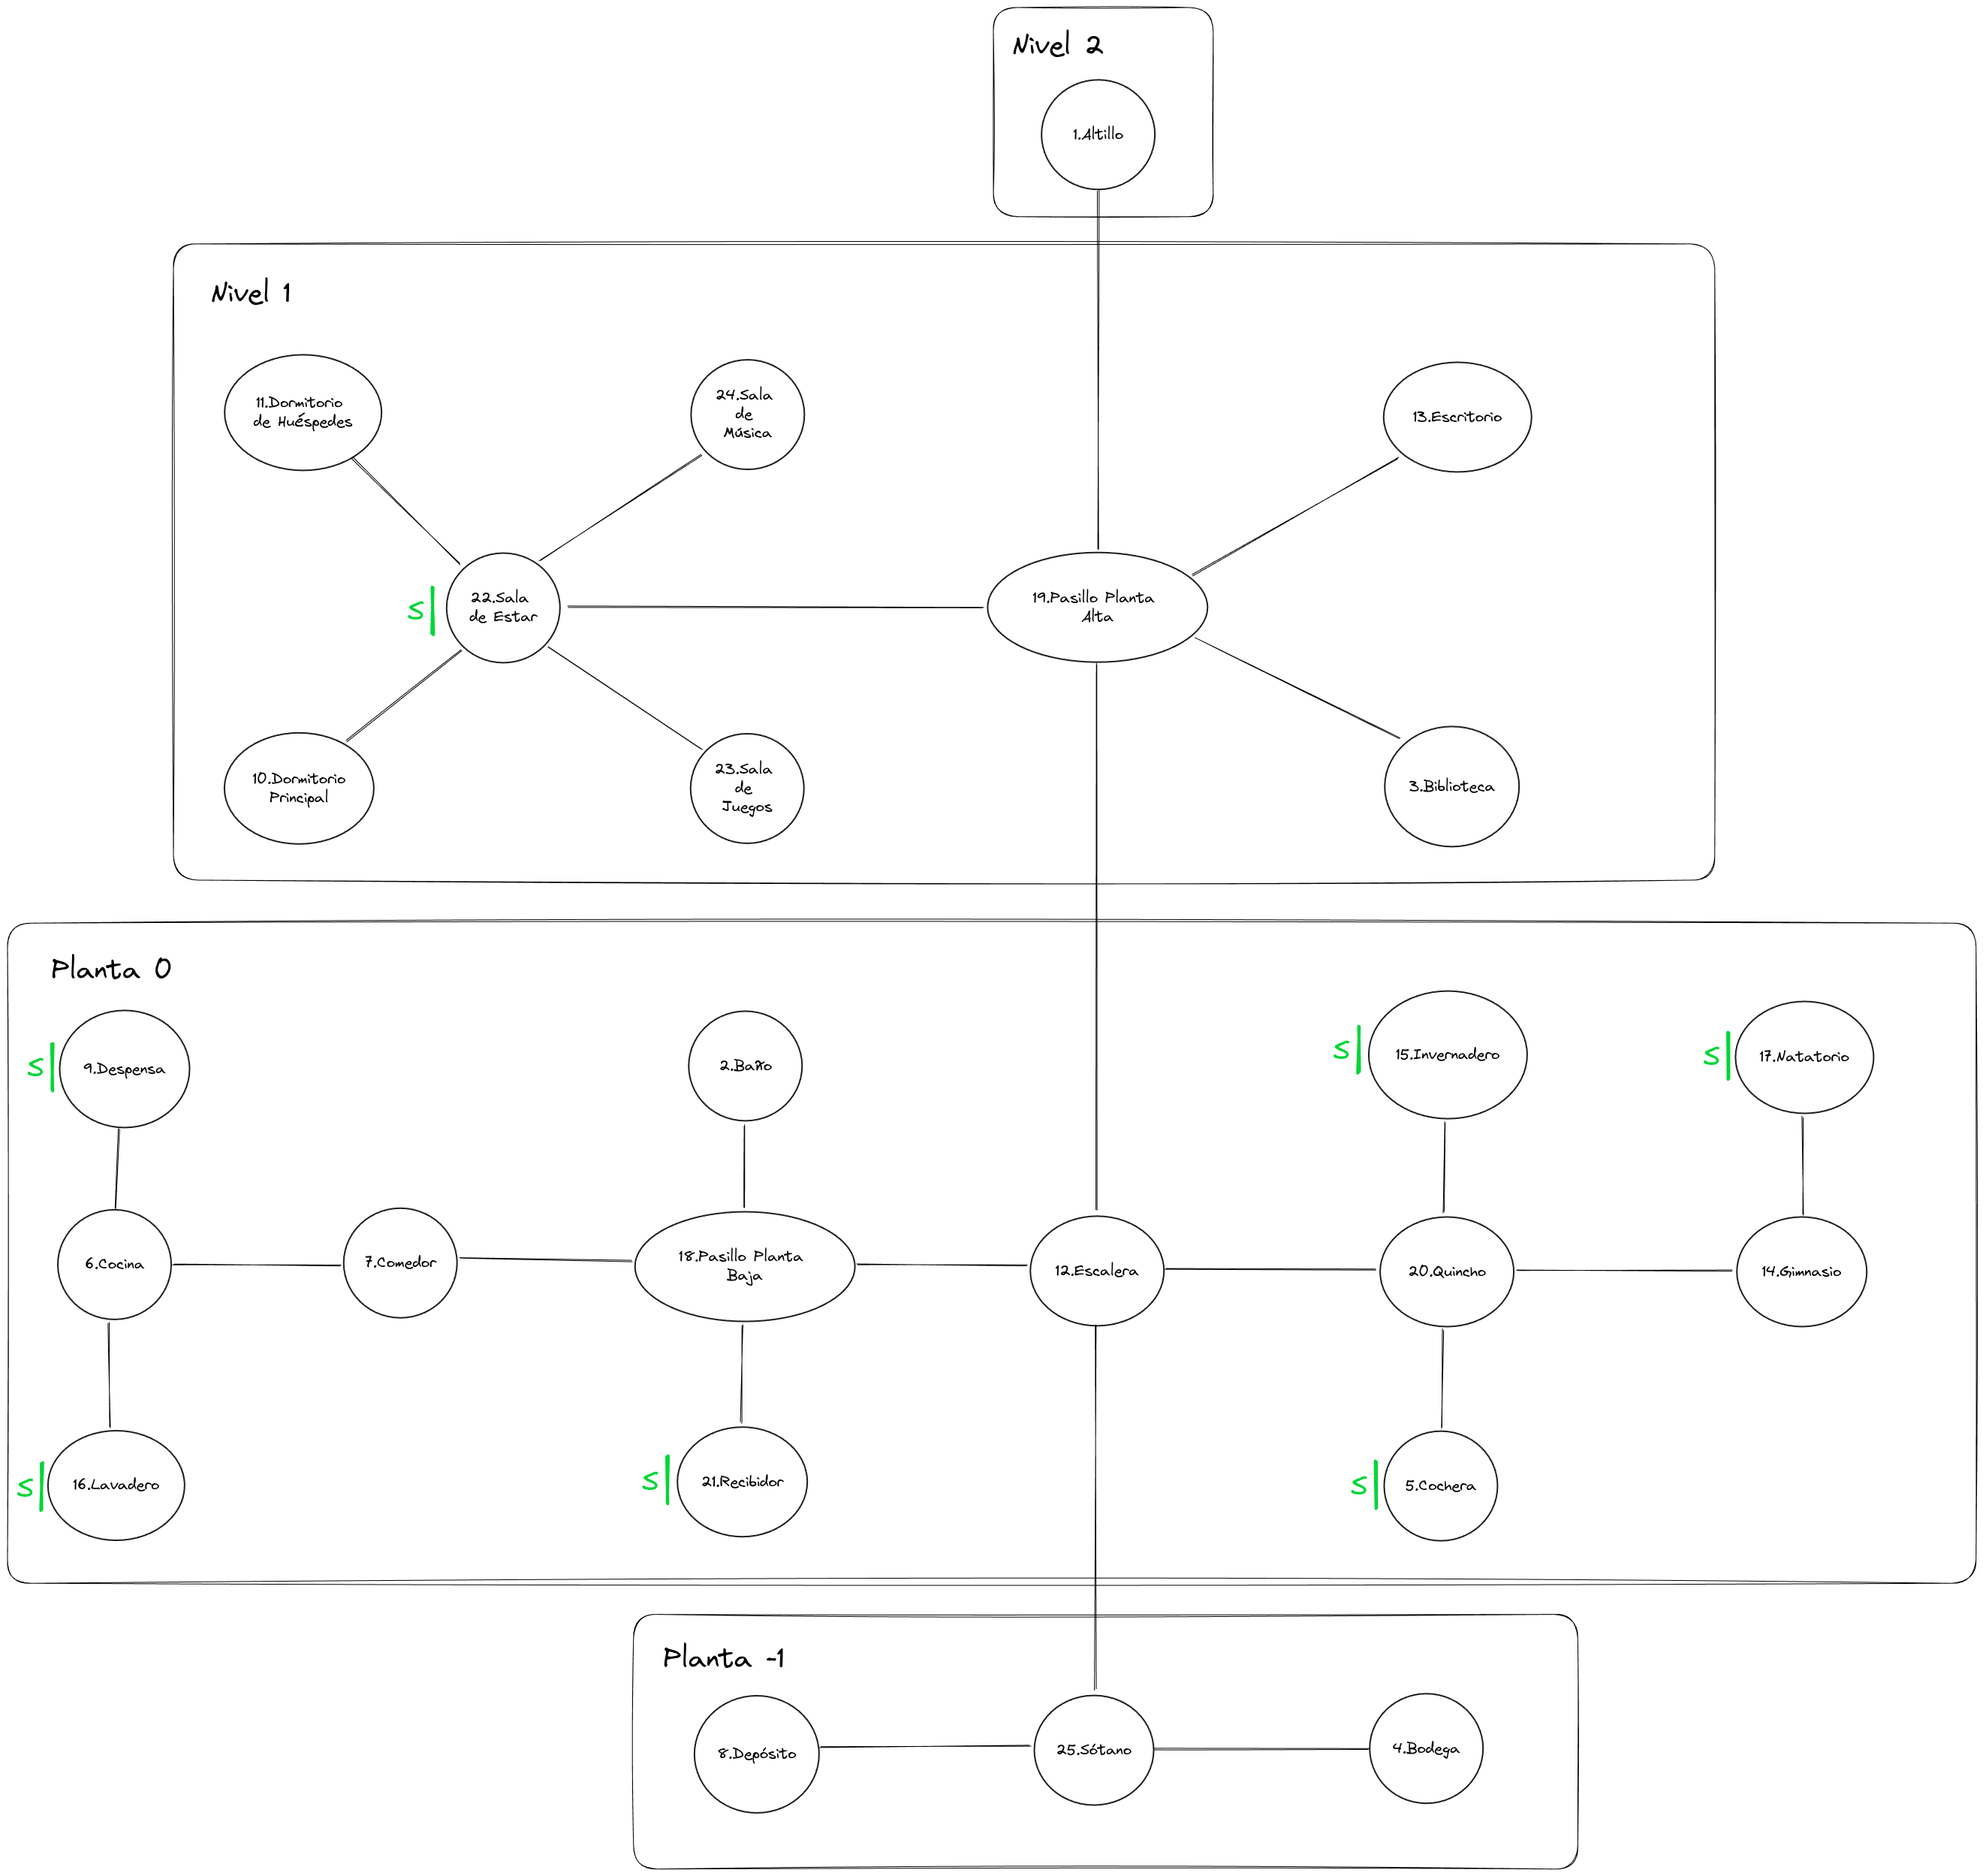
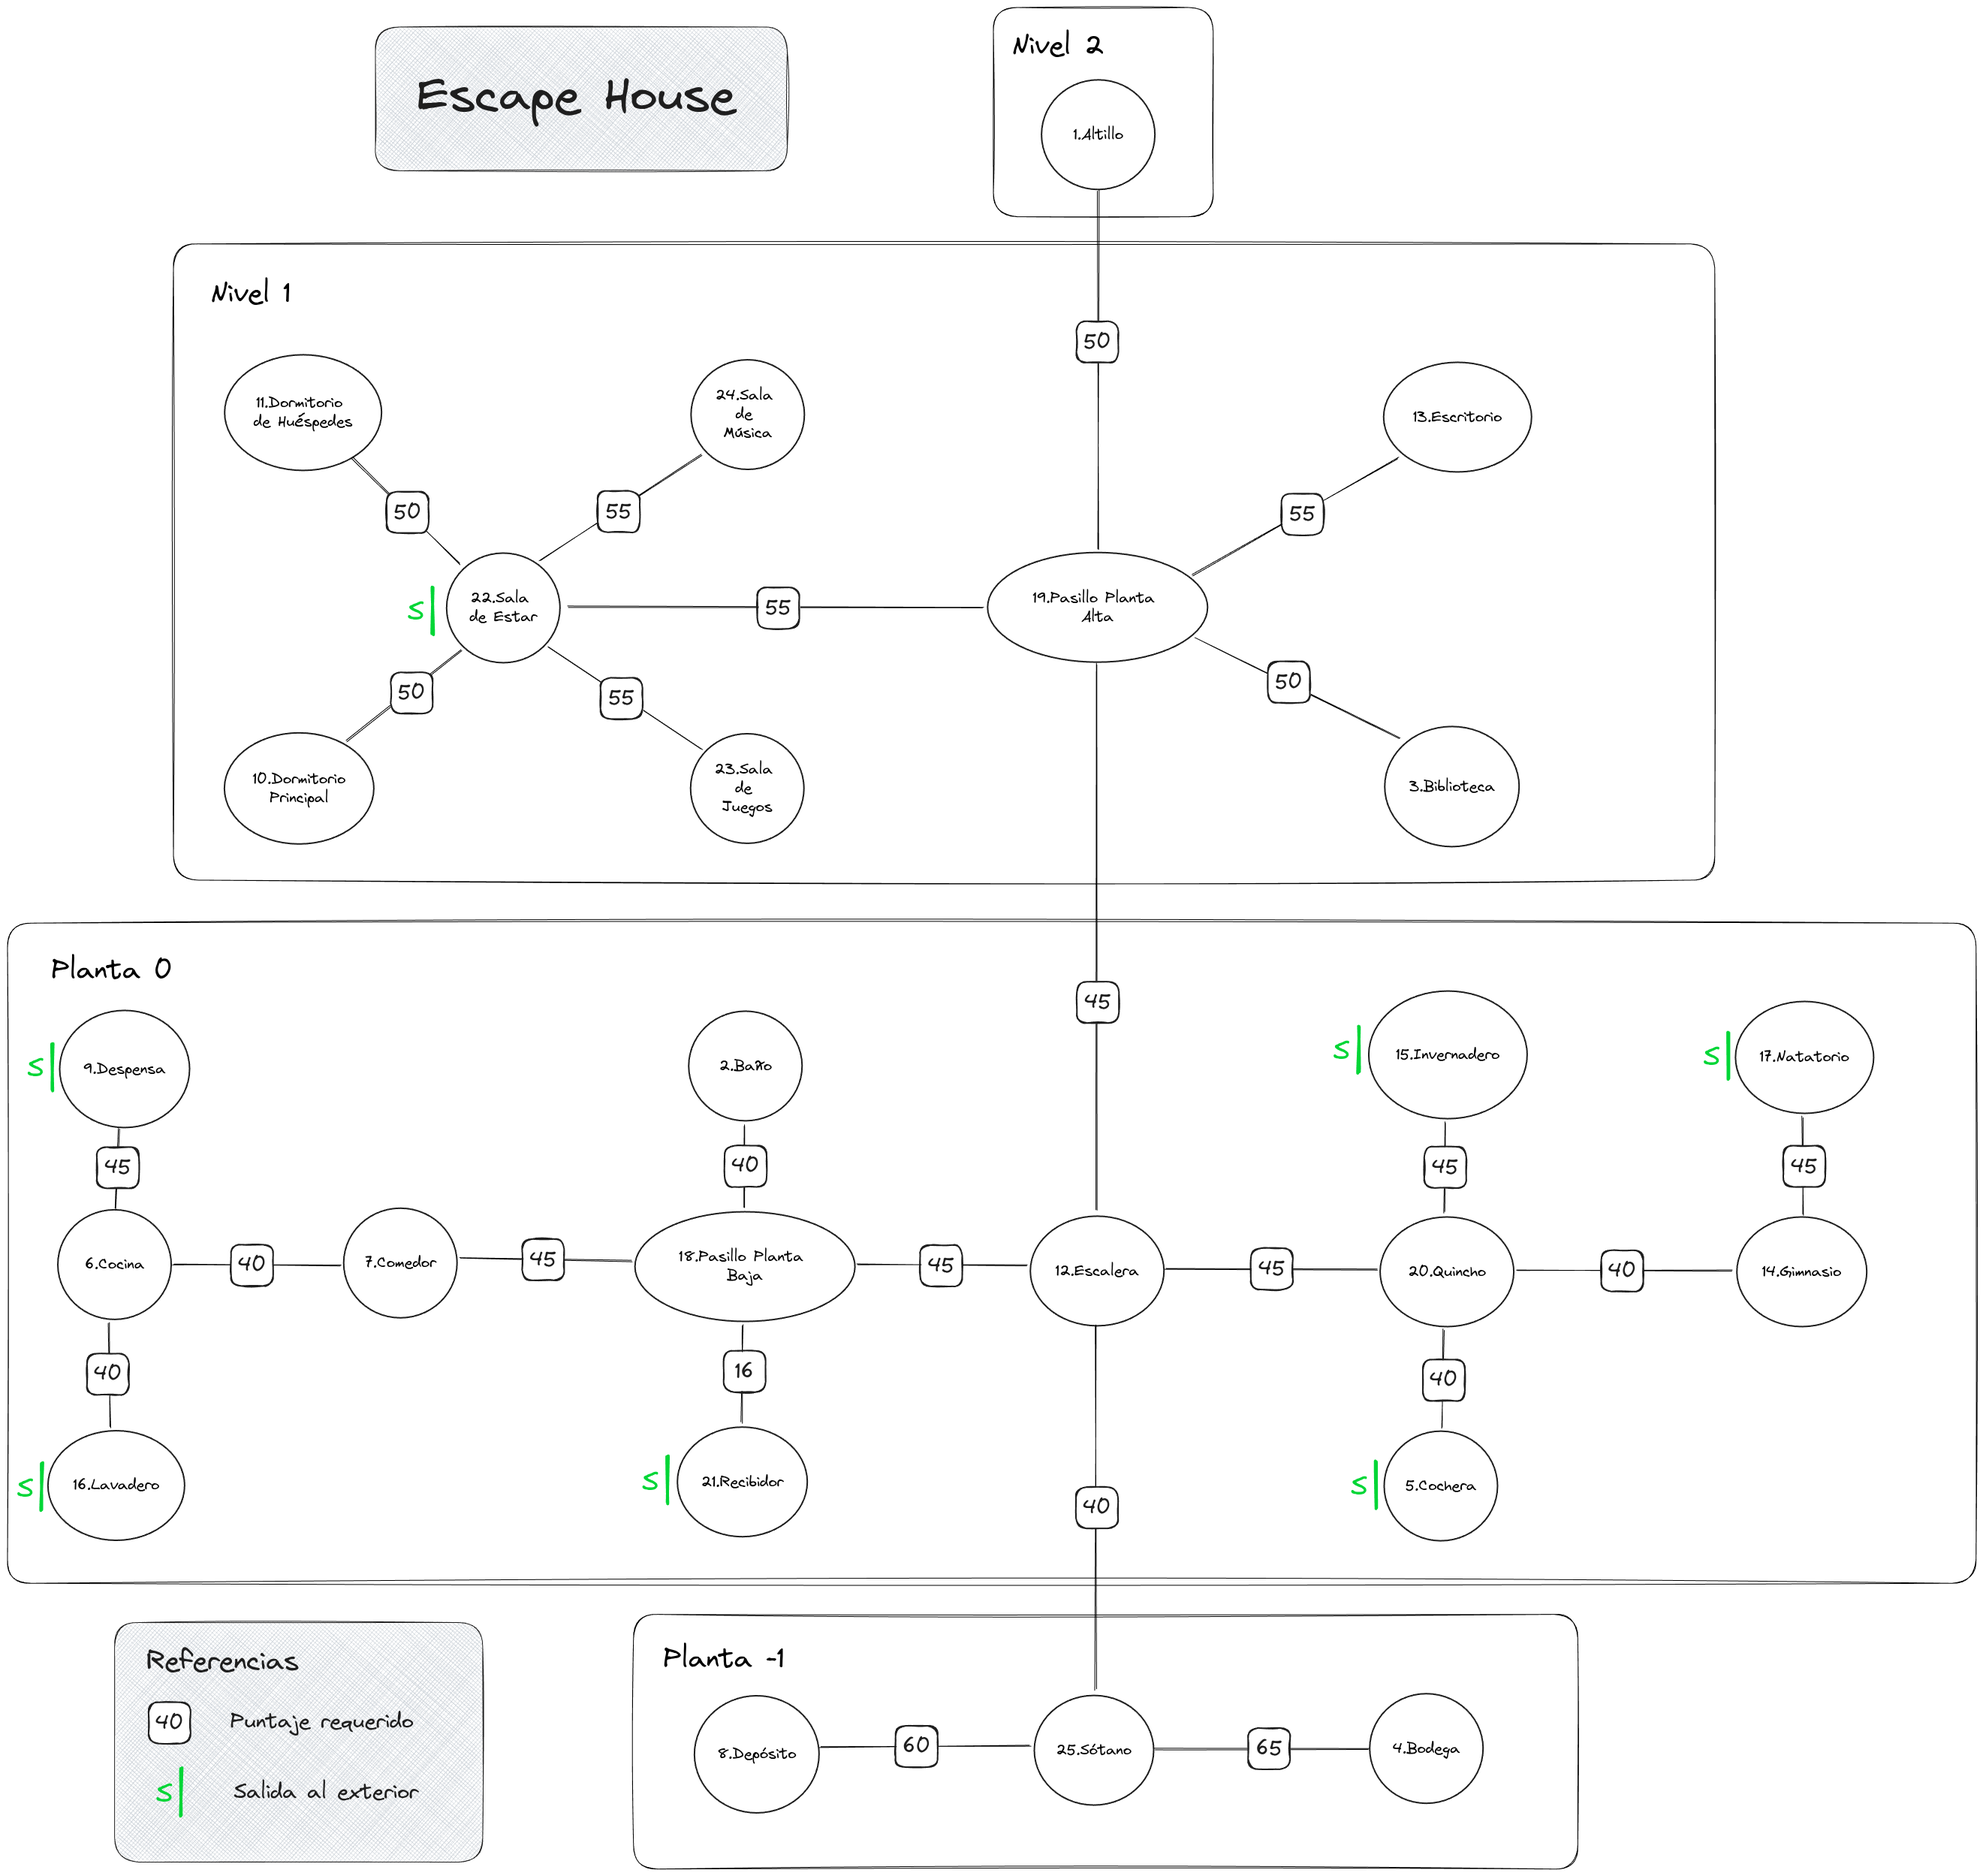
Fix: eficiencia al eliminar arcos luego de eliminar un vertice

diff --git a/EscapeHouse/src/main/java/estructuras/GrafoEtiquetado.java b/EscapeHouse/src/main/java/estructuras/GrafoEtiquetado.java
@@ -30,6 +30,8 @@ public class GrafoEtiquetado
         {
                 boolean exito = false;
                 if (this.inicio != null) {
+                        // Almacenar adyacentes para luego eliminar arcos asociados
+                        Lista adyacentes = listarAdyacentes(unElemento);
                         if (this.inicio.getElemento().equals(unElemento)) {
                                 // El elemento está en el vértice inicial
                                 this.inicio = this.inicio.getSiguienteVertice();
@@ -43,12 +45,12 @@ public class GrafoEtiquetado
                                         exito = true;
                                 }
                         }
-                }
-                if (exito) {
-                        NodoVertice nodo = this.inicio;
-                        while (nodo != null) {
-                                eliminarArco(nodo.getElemento(), unElemento);
-                                nodo = nodo.getSiguienteVertice();
+                        if (exito) {
+                                // Eliminar los arcos asociados al vértice
+                                while (!adyacentes.esVacia()) {
+                                        eliminarArco(adyacentes.recuperar(1), unElemento);
+                                        adyacentes.eliminar(1);
+                                }
                         }
                 }
                 return (exito);
